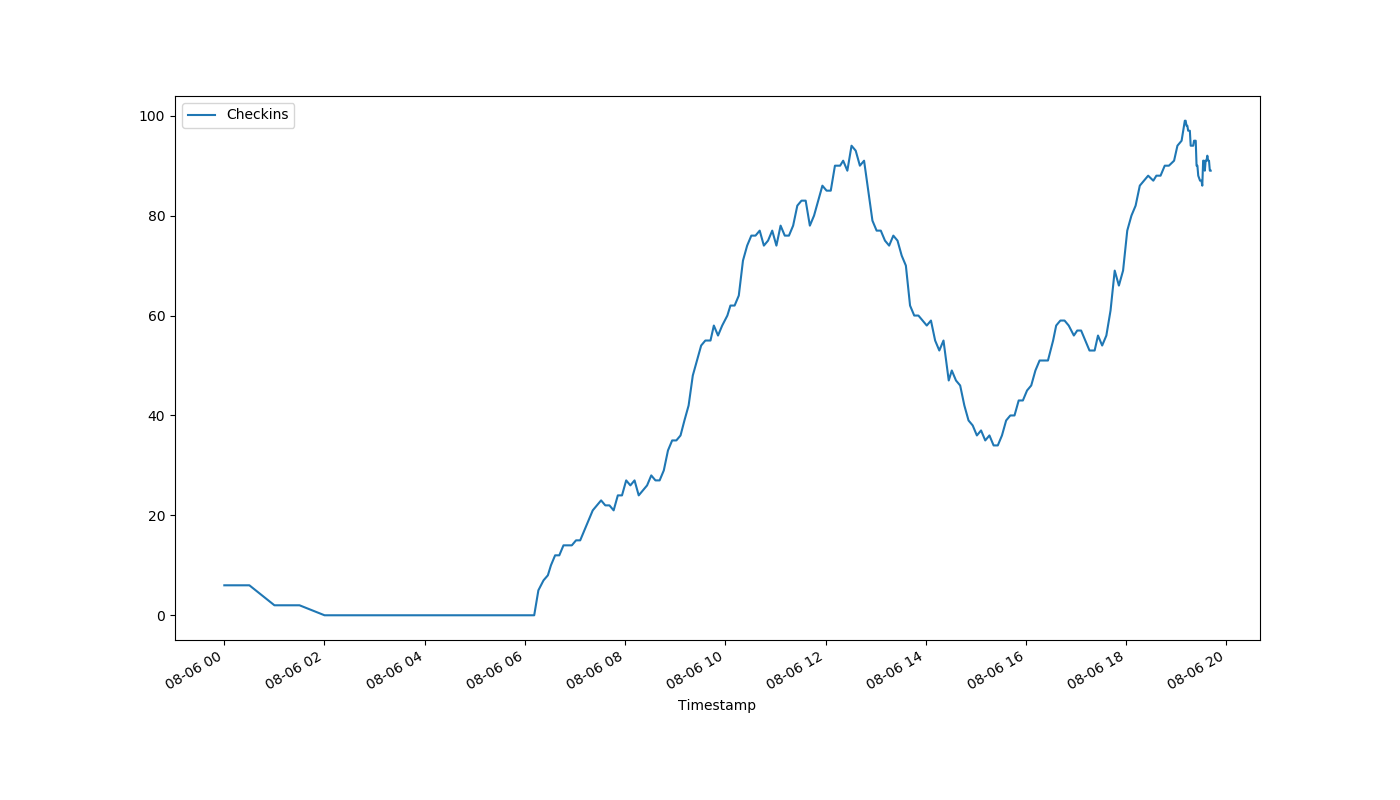
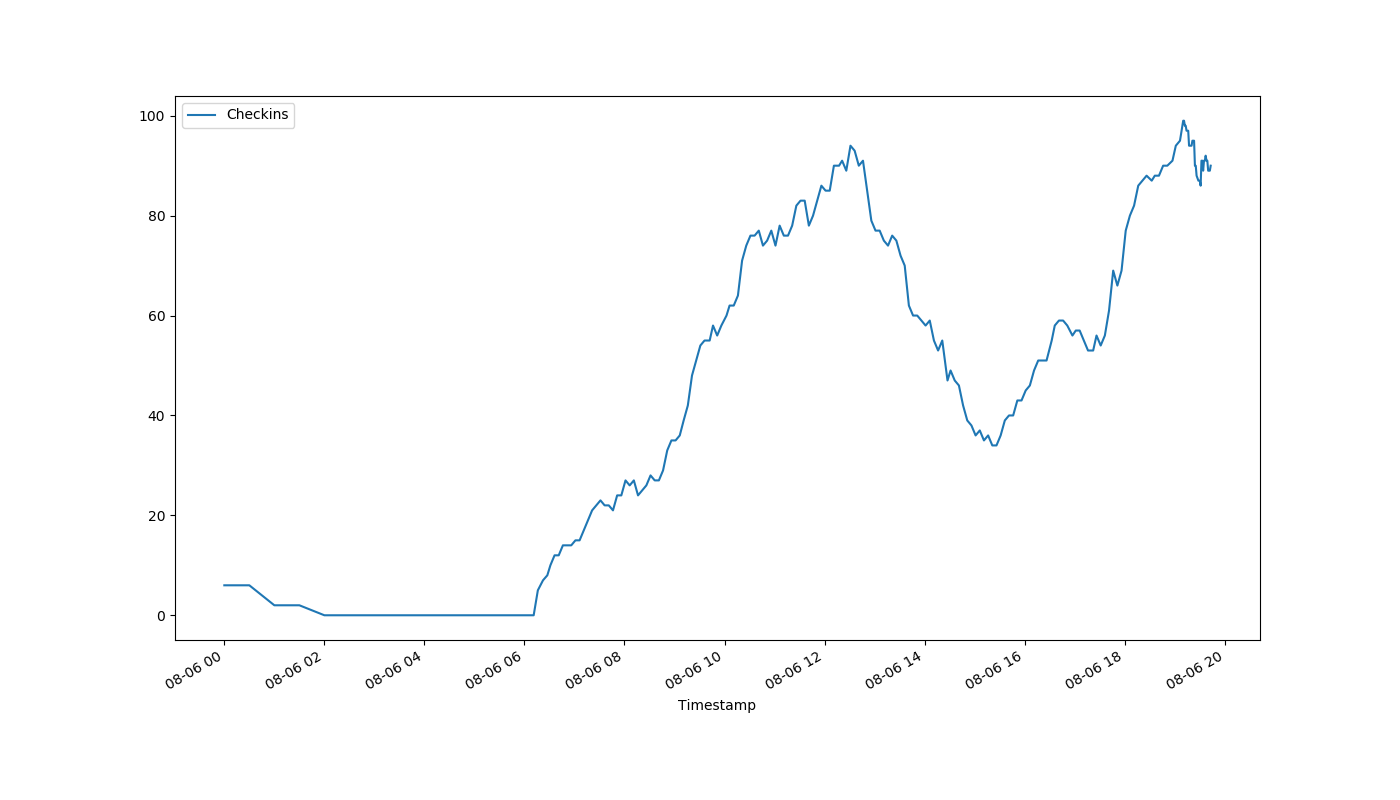
auto-Aug-06-19:43:49

diff --git a/index.html b/index.html
@@ -1,1 +1,1 @@
-<!DOCTYPE html><html><head><meta http-equiv="refresh" content="15"><link rel='stylesheet' href='holmcurrent.css'></head><body><p id='count'>89</p><div id='graph-wrap'><img id='graph' src='holmgraph-Aug-06.png'></div><p id='updated'>Last updated 19:41:08 / 19:41:08</p></body></html>
+<!DOCTYPE html><html><head><meta http-equiv="refresh" content="15"><link rel='stylesheet' href='holmcurrent.css'></head><body><p id='count'>90</p><div id='graph-wrap'><img id='graph' src='holmgraph-Aug-06.png'></div><p id='updated'>Last updated 19:43:09 / 19:43:08</p></body></html>
